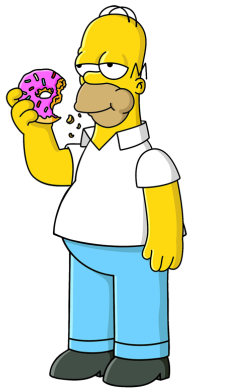
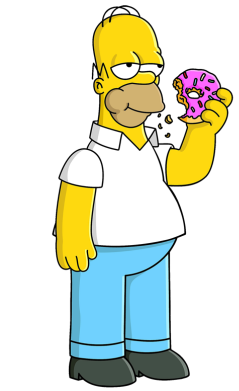
Ajout des endroit a visiter a Springfield

diff --git a/voyages/voyage5.html b/voyages/voyage5.html
@@ -22,36 +22,86 @@
             des autres villes surtout la famille Simpson.
         </div>
         <div class="text2">
-            Avant de vous presenter la ville je vais vous presenter la famille qui m'a accueillis.<br/>
+            Avant de vous presenter la ville voici la famille qui m'a accueillis.<br/>
             La famille Simpson.
         </div>    
-        <div class="blocks">
+        <div class="container">
             <div class="blockPlace">
-                <img src="../images/the-simpsons/Homer.png">
+                <img class="perso" src="../images/the-simpsons/Homer.png">
                 Homer
             </div>
             <div class="blockPlace">
-                <img src="../images/the-simpsons/Marge.png">
+                <img class="perso" src="../images/the-simpsons/Marge.png">
                 Marge
             </div>            
         </div> 
-        <div class="blocks">
+        <div class="container">
             <div class="blockPlace">
-                <img src="../images/the-simpsons/Bart.png">
+                <img class="perso" src="../images/the-simpsons/Bart.png">
                 Bart
             </div>
             <div class="blockPlace">
-                <img src="../images/the-simpsons/Lisa.png">
+                <img class="perso" src="../images/the-simpsons/Lisa.png">
                 Lisa
             </div>            
         </div>
-        <div class="blocks">
+        <div class="container">
             <div class="blockNull"></div>
             <div class="blockPlace">
-                <img src="../images/the-simpsons/Maggie.png">
+                <img class="perso" src="../images/the-simpsons/Maggie.png">
                 Maggie
             </div>            
-        </div>                   
+        </div>
+        <div class="container2">
+            <div class="leftright">
+                <div class="textImage">
+                    <div class="text2">
+                        Ici on a leur maison situee au 742 Evergreen Terrace
+                    </div>     
+                    <div class="batiment">
+                        <img class="imgWidth" src="../images/the-simpsons/simpsons-house.png">
+                    </div>                    
+                </div>
+                <div class="textImage">
+                    <div class="text2">
+                        Sans oublier la cabane dans l'arbre de Bart
+                    </div>
+                    <div class="batiment">
+                        <img class="imgWidth" src="../images/the-simpsons/barts-treehouse.png">
+                    </div>
+                </div>                
+            </div>  
+            <div class="text2">
+                N'oubliez surtout pas de passer à la taverne de Moe pour boire un coup
+            </div>           
+            <div class="batiment">
+                <img src="../images/the-simpsons/moes-tavern.png">
+            </div> 
+            <div class="leftright">
+                <div class="textImage">
+                    <div class="text2">
+                        Voici le kwik-e-mart si vous avez besoin de faire courses
+                    </div>     
+                    <div class="batiment">
+                        <img class="imgWidth" src="../images/the-simpsons/kwik-e-mart.png">
+                    </div>                    
+                </div>
+                <div class="textImage">
+                    <div class="text2">
+                        Ou bien le Krusty Burger si vous avez la flemme de faire à manger
+                    </div>
+                    <div class="batiment">
+                        <img class="imgWidth" src="../images/the-simpsons/krusty-burger.png">
+                    </div>
+                </div> 
+            </div>
+            <div class="text2">
+                Et pour finir voici l'ecole elementaire de Springfield
+            </div>            
+            <div class="batiment">
+                <img src="../images/the-simpsons/school.png">
+            </div>      
+        </div>        
     </main>
     <footer>  
     </footer>

diff --git a/voyages/voyage4.html b/voyages/voyage4.html
@@ -69,7 +69,7 @@
         <div class="text2">
             On a ici les batiments principaux de la ville :
         </div>
-        <div class="Batiments">
+        <div class="container">
             <div class="batimentText">
                 On est ici chez Kyle dans le quartier residentiel parcelle numero 1002
             </div>
@@ -77,7 +77,7 @@
                 <img class="imgBatiment" src="../images/south-park/kyle-house.png">
             </div>            
         </div>
-        <div class="Batiments">
+        <div class="container">
             <div class="batiment">
                 <img class="imgBatiment" src="../images/south-park/stan-house.png">
             </div>
@@ -85,7 +85,7 @@
                 Ici c'est la maison de Stan a la parcelle 2001
             </div>
         </div>
-        <div class="Batiments">
+        <div class="container">
             <div class="batimentText">
                 Puis la on est chez Cartman: 28201 E. Bonanza St.
             </div>
@@ -93,7 +93,7 @@
                 <img class="imgBatiment" src="../images/south-park/cartman-house.png">
             </div>            
         </div>
-        <div class="Batiments">
+        <div class="container">
             <div class="batiment">
                 <img class="imgBatiment" src="../images/south-park/kenny-house.png">
             </div>
@@ -101,7 +101,7 @@
                 Et pour finir avec les maisons de nos protagonistes chez Kenny: 635 Avenue de Los Mexicanos
             </div>
         </div>
-        <div class="Batiments">
+        <div class="container">
             <div class="batimentText">
                 Voici l'ecole, un des endroits que l'on visite le plus a South Park quand on a 10 ans.
             </div>
@@ -109,7 +109,7 @@
                 <img class="imgBatiment" src="../images/south-park/ecole.gif">
             </div>            
         </div>        
-        <div class="Batiments">
+        <div class="container">
             <div class="batiment">
                 <img class="imgBatiment" src="../images/south-park/mall.png">
             </div>
@@ -117,7 +117,7 @@
                 N'oublions pas le centre commercial tres important
             </div>
         </div>
-        <div class="Batiments">
+        <div class="container">
             <div class="batimentText">
                 Et pour finir bienvenue a l'eglise de South Park
             </div>

diff --git a/css/voyage5.css b/css/voyage5.css
@@ -1,3 +1,8 @@
+body{
+    padding: 0;
+    margin: 0;
+}
+
 @font-face{
     font-family: the-simpsons;
     src: url(../font/the-simpsons.otf);
@@ -58,23 +63,55 @@
     }
 }
 
-.blocks{
+.container{
     display: flex;
 }
 
 .blockPlace{
     width: 50%;
     text-align: center;
-    background-color: rgba(0, 0, 0, 0.3);
-    border-radius: 30px;
     margin-top: 2%;
-    font-family: 'Roboto',Helvetica,Arial,Lucida,sans-serif;
     letter-spacing: 1px;
     padding: 2%;
     color: white;
+    font-family: the-simpsons;
 }
 
 .blockNull{
     width: 50%;
     padding: 2%;
+}
+
+.perso{
+    transition: transform 1s ease-in-out;
+}
+
+.perso:hover{
+    transform: scaleX(-1);
+}
+
+.container2{
+    margin: 0;
+    padding: 0;
+    background-color: #54B4E6;
+    border-top-right-radius: 2%;
+    border-top-left-radius: 2%;
+}
+
+.batiment{
+    display: flex;
+    justify-content: center;
+}
+
+.leftright{
+    display: flex;
+}
+
+.textImage{
+    display: flex;
+    flex-direction: column;
+}
+
+.imgWidth{
+    width: 100%;
 }

diff --git a/css/voyage4.css b/css/voyage4.css
@@ -190,7 +190,7 @@ body{
     margin-top: 10%;
 }
 
-.Batiments{
+.container{
     display: flex;
     flex-direction: row;
     margin-top: 5%;
